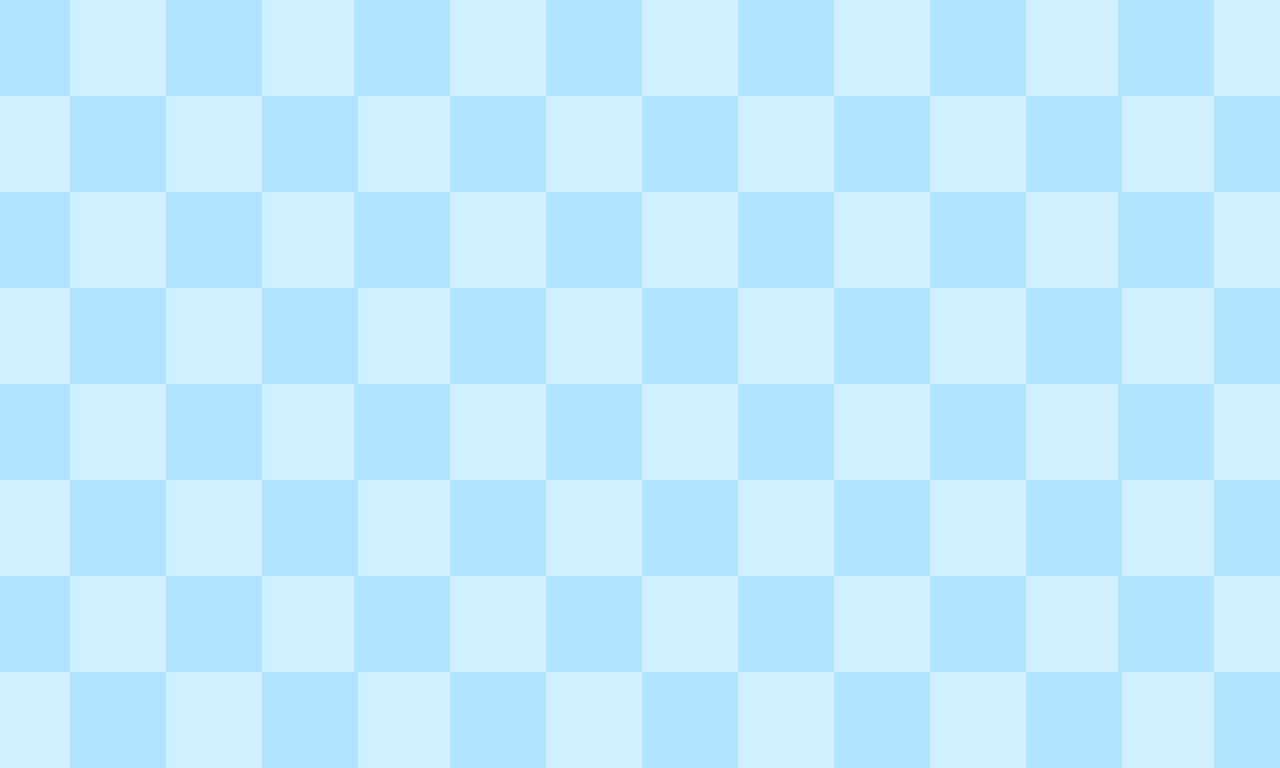
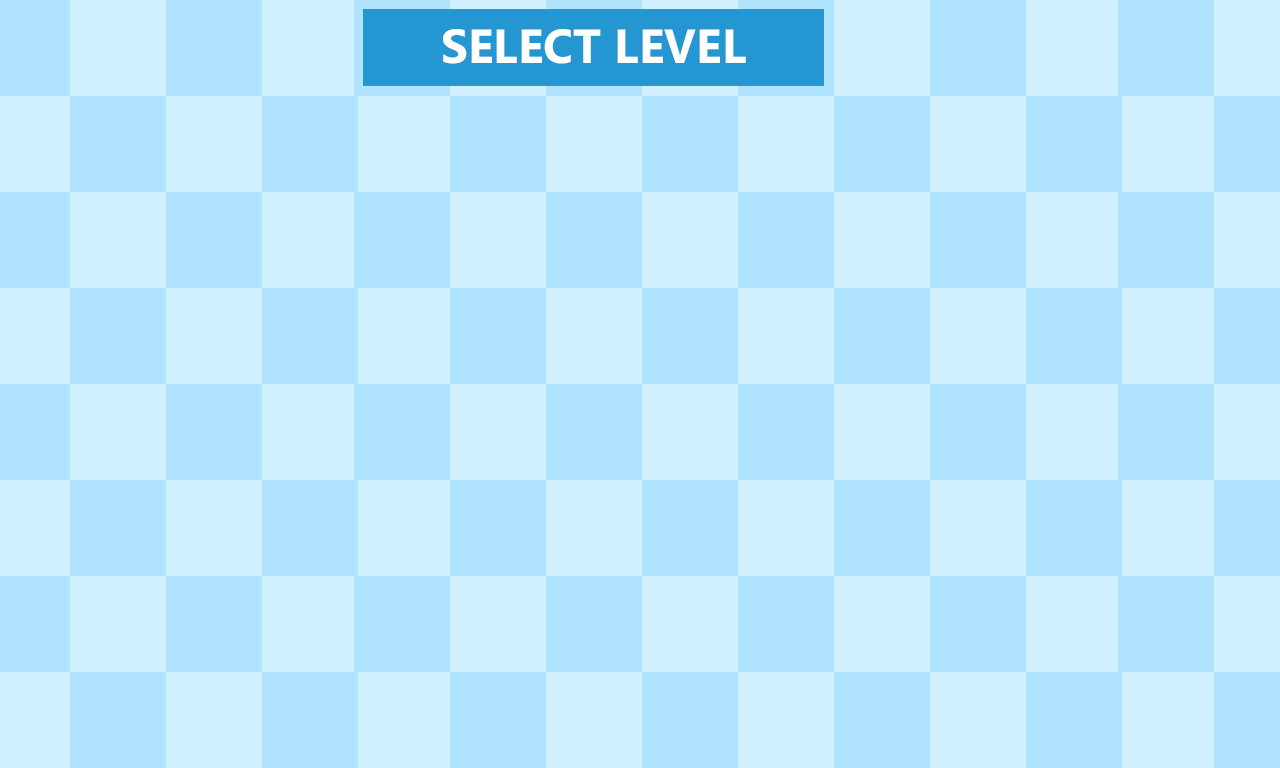
FINAL - Mr. Dũng

Changed region(s): [[0.2812, 0.0, 0.6562, 0.125]]

diff --git a/Classes/SelectLevelScene.cpp b/Classes/SelectLevelScene.cpp
@@ -30,7 +30,6 @@ bool SelectLevelScene::init()
 	//touch init...
 	CCDirector::sharedDirector()->getTouchDispatcher()->addTargetedDelegate(this, 0, true);
 	this->setTouchEnabled(true);
-	isMoved = false;
 
 	CCSize vs = CCDirector::sharedDirector()->getVisibleSize();
 
@@ -56,7 +55,7 @@ bool SelectLevelScene::init()
 	float dy = 40;
 	float w = sprLevel->getContentSize().width;
 	float h = sprLevel->getContentSize().height;
-	float top = vs.height/2 + (numberOfRow/2.0-0.5) * h + (numberOfRow-1)/2.0 * dy;
+	float top = -40 + vs.height/2 + (numberOfRow/2.0-0.5) * h + (numberOfRow-1)/2.0 * dy;
 	float left = vs.width/2 - (numberOfColum/2.0 - 0.5) * w - (numberOfColum-1)/2.0 * dx;
 	float deltax = w + dx;
 	float deltay = h + dy;
@@ -100,43 +99,28 @@ bool SelectLevelScene::init()
 			}
 		}
 	}
+
+	//back button...
+	CCMenuItemImage* btnBack = CCMenuItemImage::create("buttomMenu.png", "buttomMenuPr.png", this, menu_selector(SelectLevelScene::BackToMenu));
+	btnBack->setPosition(ccp(btnBack->getContentSize().width/2 - vs.width/2, btnBack->getContentSize().height/2 - vs.height/2));
+
+	CCMenu* menu = CCMenu::create(btnBack, NULL); //
+	this->addChild(menu, 0);
 	
 	return true;
 }
 
 bool SelectLevelScene::ccTouchBegan( CCTouch *pTouch, CCEvent *pEvent )
 {
-	lastTouchPoint = pTouch->getLocation();
-
-	isMoved = false;
 	return true;
 }
 
 void SelectLevelScene::ccTouchMoved( CCTouch *pTouch, CCEvent *pEvent )
 {
-// 	int MIN_DELTA_MOVE = 20;
-// 	CCPoint p = pTouch->getLocation();
-// 	float dx = abs(p.x - lastTouchPoint.x);
-// 	float dir = dx / (p.x - lastTouchPoint.x);
-// 	if (dx >= MIN_DELTA_MOVE)
-// 	{
-// 		CCSize vs = CCDirector::sharedDirector()->getVisibleSize();
-// 		CCAction* move = CCEaseBackOut::create(CCMoveBy::create(8, ccp(dir * vs.width, 0)));
-// 		mainSprite->runAction(move);
-// 	}
-// 
-// 	lastTouchPoint = p;
-	isMoved = true;
 }
 
 void SelectLevelScene::ccTouchEnded( CCTouch *pTouch, CCEvent *pEvent )
 {
-	if (isMoved)
-	{
-		isMoved = false;
-		return;
-	}
-
 	int currentLevel = DataManager::GetInstance()->GetCurrenLevel() - 1;
 	//
 	CCArray* children = mainSprite->getChildren();
@@ -150,6 +134,10 @@ void SelectLevelScene::ccTouchEnded( CCTouch *pTouch, CCEvent *pEvent )
 			CCLOG("Select level %d", level);
 			if (level <= currentLevel)
 			{
+				if (G_IsPlaySound)
+				{
+					SimpleAudioEngine::sharedEngine()->playEffect("sfx_button.wav");
+				}
 				GotoPlay(level);
 			}
 
@@ -166,4 +154,14 @@ void SelectLevelScene::GotoPlay( int level )
 
 	CCScene* transScene = CCTransitionFade::create(0.3, maingame);
 	CCDirector::sharedDirector()->replaceScene(transScene);
+}
+
+void SelectLevelScene::BackToMenu( CCObject* pSender )
+{
+	if (G_IsPlaySound)
+	{
+		SimpleAudioEngine::sharedEngine()->playEffect("sfx_button.wav");
+	}
+
+	CCDirector::sharedDirector()->replaceScene(CCTransitionFade::create(0.3, MenuScene::scene()));
 }

diff --git a/Classes/SelectLevelScene.h b/Classes/SelectLevelScene.h
@@ -11,14 +11,12 @@ public:
 	static CCScene* scene();
 	CREATE_FUNC(SelectLevelScene);
 
-	CCPoint lastTouchPoint;
-	bool isMoved;
-
 	virtual bool ccTouchBegan(CCTouch *pTouch, CCEvent *pEvent);
 	virtual void ccTouchMoved(CCTouch *pTouch, CCEvent *pEvent);
 	virtual void ccTouchEnded(CCTouch *pTouch, CCEvent *pEvent);
 
 	void GotoPlay( int level );
+	void BackToMenu(CCObject* pSender);
 
 private:
 	CCSprite* mainSprite;
